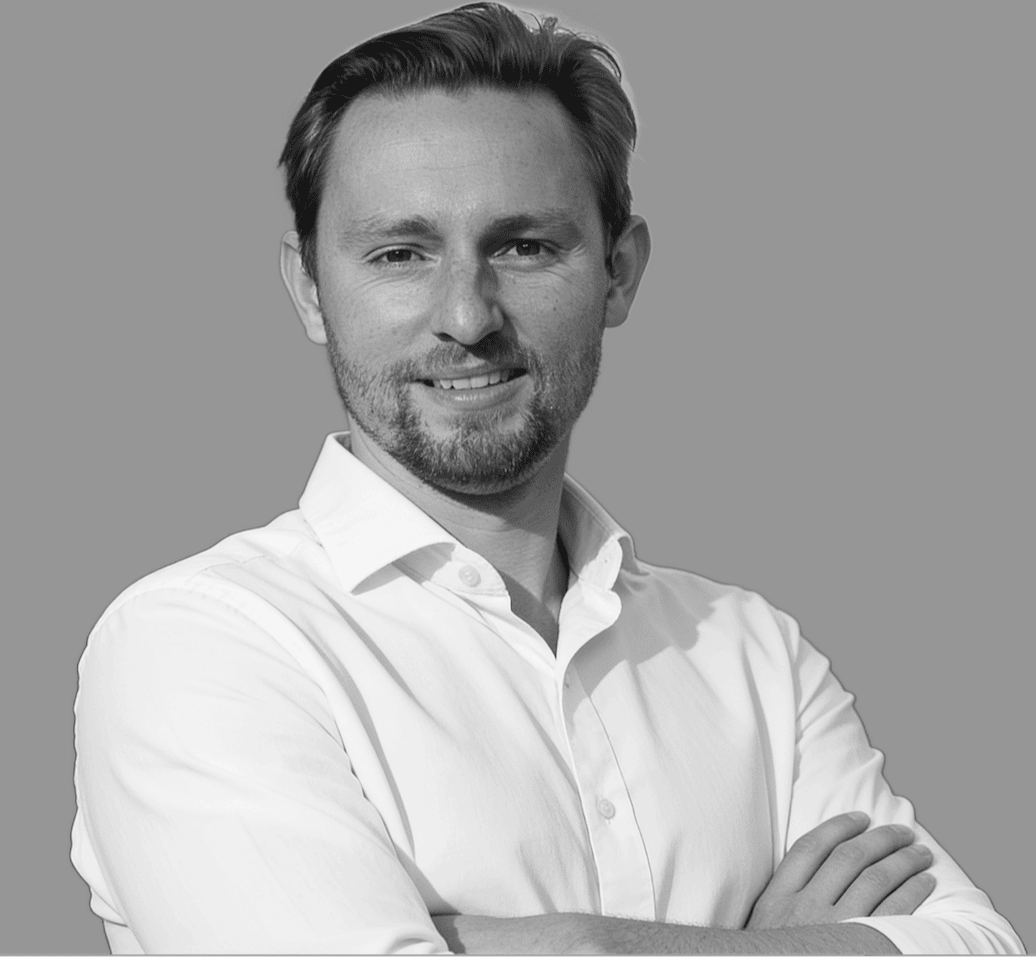
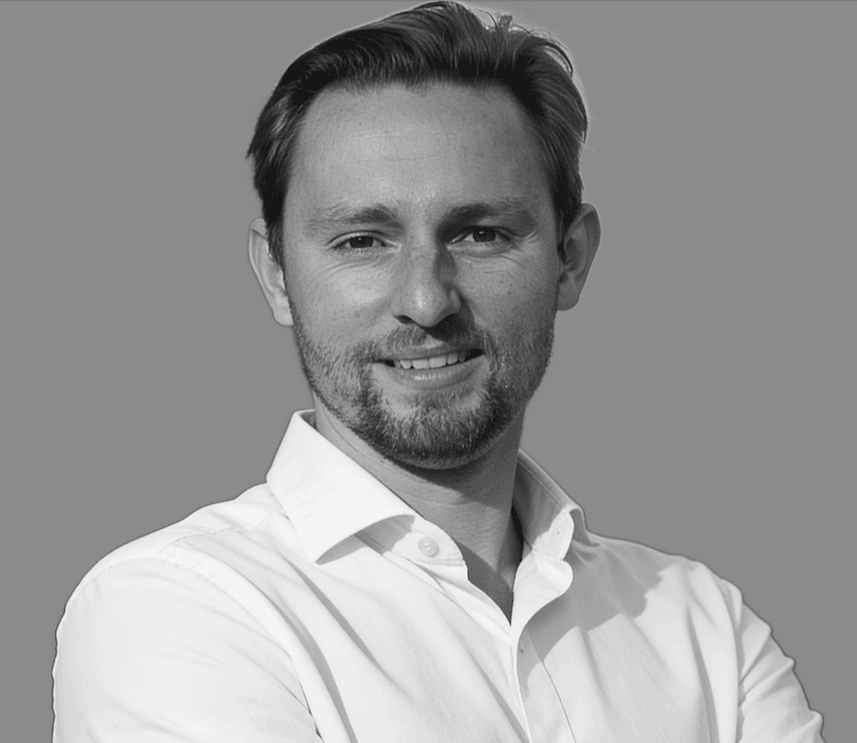
Mission: julien-final.png mis à jour + cache-bust

diff --git a/src/views/Mission.jsx b/src/views/Mission.jsx
@@ -2,7 +2,7 @@
 import React, { useEffect } from 'react';
 import Link from 'next/link';
 const jeromeImg = '/assets/images/notremission/jerome-final.png?v=' + Date.now();
-const julienImg = '/assets/images/notremission/julien-final.png';
+const julienImg = '/assets/images/notremission/julien-final.png?v=' + Date.now();
 const kavidaImg = '/assets/images/notremission/kavida-final.png';
 const Mission = () => {
   useEffect(() => {
